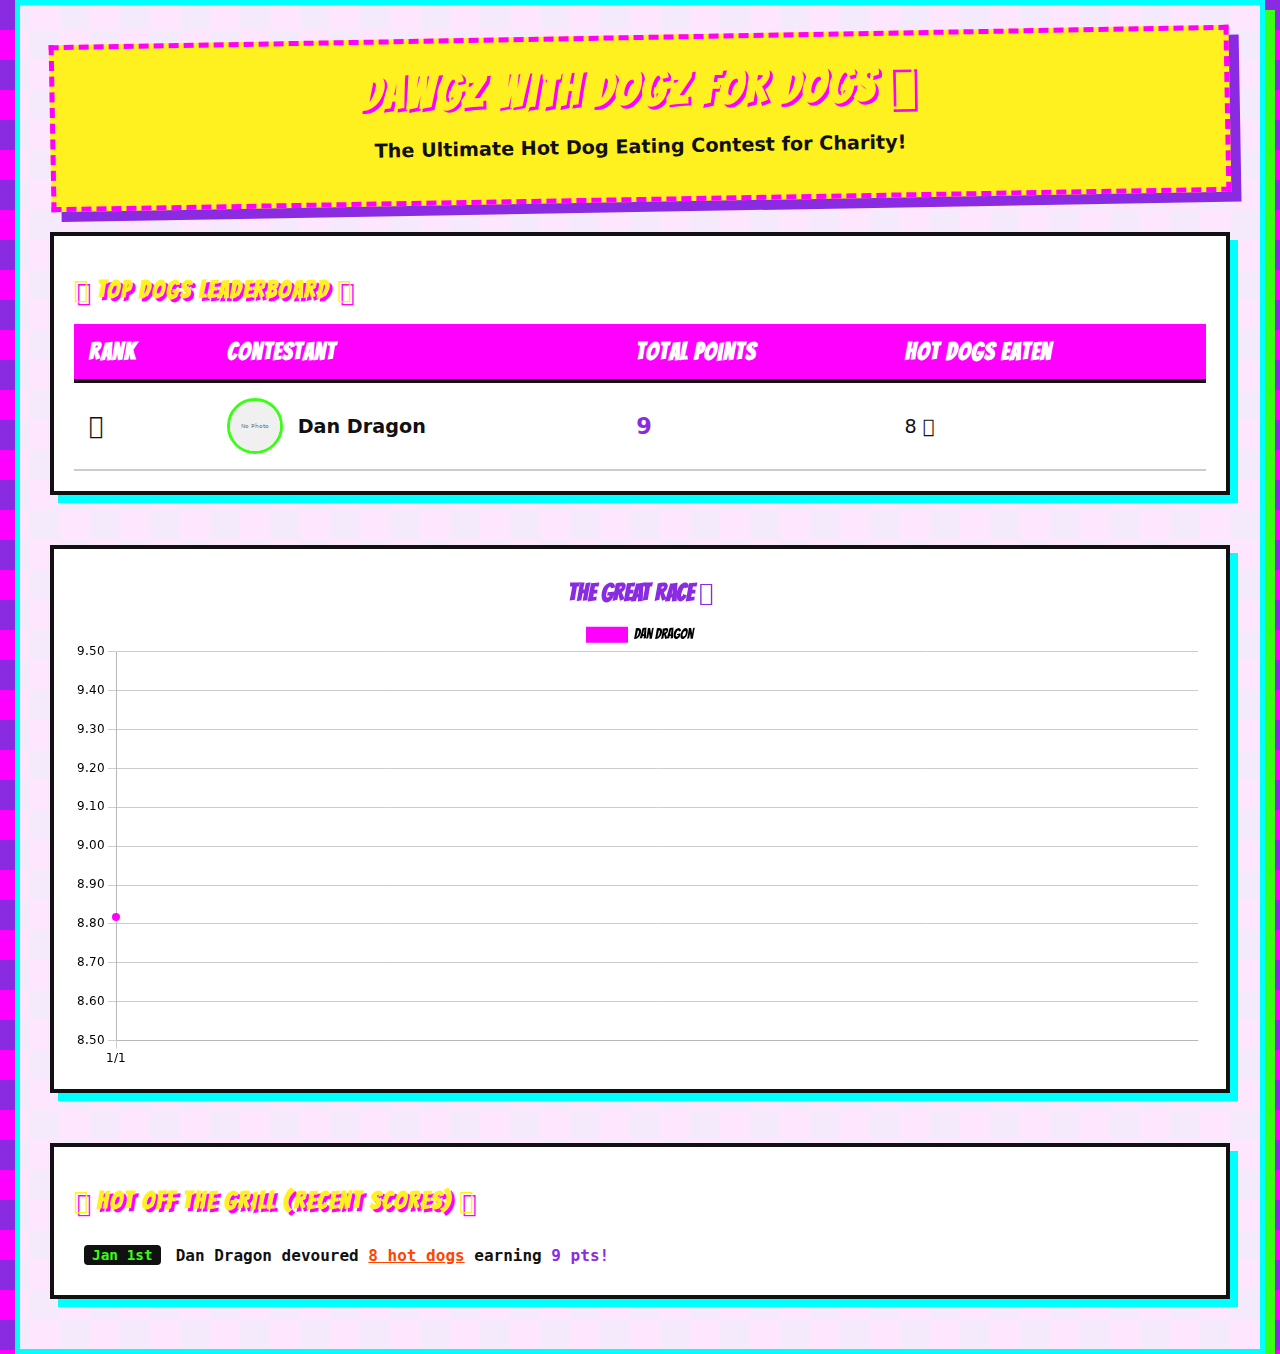
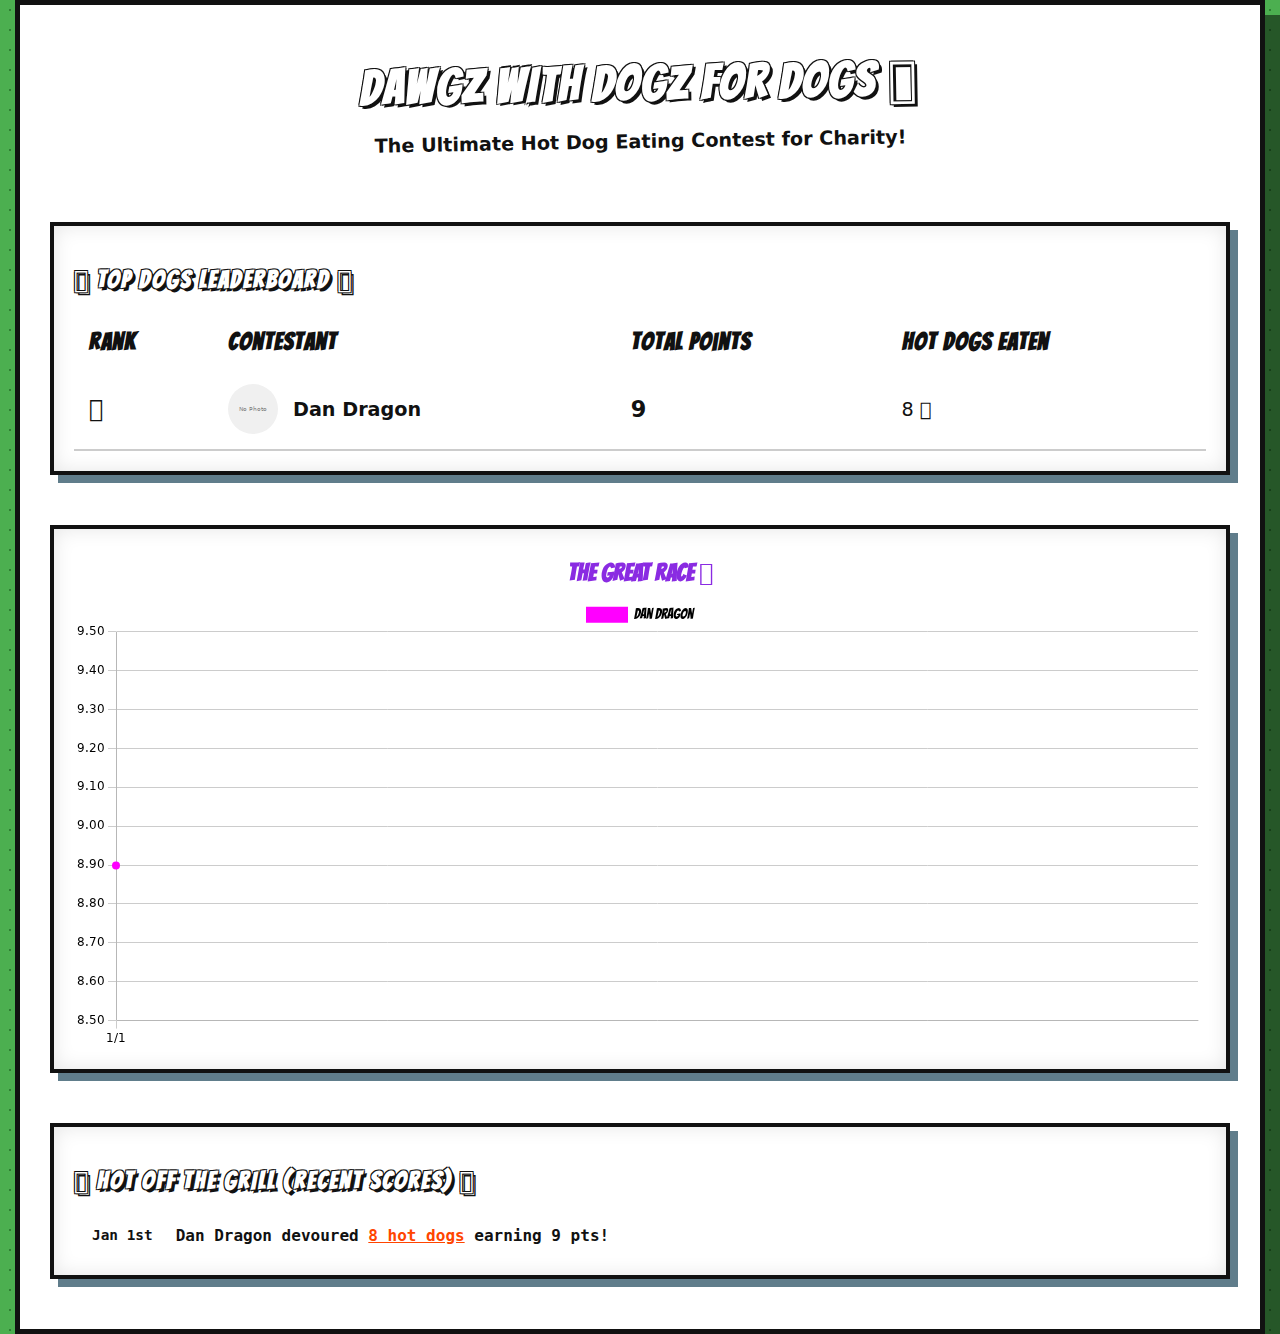
feat: Dawgz with Dogz for Dogs app
- Implemented Vue 3 Vite app with Comic/TMNT theme
- Fetches and joins data from Google Sheets CSVs
- Displays leaderboard, global progress chart, and recent activity
- Individual contestant profile pages with humorous stats and history
- Chart.js integration for progress visualization
- GitHub Actions workflow for Pages deployment

diff --git a/src/assets/main.css b/src/assets/main.css
@@ -1,22 +1,23 @@
 :root {
-  --color-neon-pink: #ff00ff;
-  --color-neon-cyan: #00ffff;
-  --color-neon-green: #39ff14;
-  --color-neon-yellow: #fff01f;
-  --color-purple: #8a2be2;
-  --color-black: #111;
-  --color-white: #fff;
+  --color-tmnt-green: #4caf50; /* Leonardo/Ralph skin tone */
+  --color-tmnt-dark-green: #2e7d32;
+  --color-comic-red: #f44336; /* Raphael */
+  --color-comic-blue: #2196f3; /* Leonardo */
+  --color-comic-orange: #ff9800; /* Michelangelo */
+  --color-comic-purple: #9c27b0; /* Donatello */
+  --color-comic-yellow: #ffeb3b; /* April's jumpsuit */
+  --color-comic-black: #111;
+  --color-comic-white: #fff;
+  --color-sewer-grey: #607d8b;
+  --bg-pattern: radial-gradient(circle, var(--color-tmnt-dark-green) 1px, transparent 1px);
 }
 
 body {
-  font-family: 'Comic Sans MS', 'Chalkboard SE', 'Marker Felt', sans-serif;
-  background-color: var(--color-purple);
-  background-image:
-    linear-gradient(45deg, var(--color-neon-pink) 25%, transparent 25%, transparent 75%, var(--color-neon-pink) 75%, var(--color-neon-pink)),
-    linear-gradient(45deg, var(--color-neon-pink) 25%, transparent 25%, transparent 75%, var(--color-neon-pink) 75%, var(--color-neon-pink));
-  background-size: 60px 60px;
-  background-position: 0 0, 30px 30px;
-  color: var(--color-black);
+  font-family: 'Roboto Condensed', sans-serif;
+  background-color: var(--color-tmnt-green);
+  background-image: var(--bg-pattern);
+  background-size: 20px 20px;
+  color: var(--color-comic-black);
   margin: 0;
   padding: 0;
 }
@@ -24,8 +25,13 @@ body {
 h1, h2, h3 {
   font-family: 'Bangers', cursive;
   text-transform: uppercase;
-  color: var(--color-neon-yellow);
-  text-shadow: 3px 3px 0px var(--color-neon-pink);
+  color: var(--color-comic-white);
+  text-shadow:
+    3px 3px 0 var(--color-comic-black),
+    -1px -1px 0 var(--color-comic-black),
+    1px -1px 0 var(--color-comic-black),
+    -1px 1px 0 var(--color-comic-black),
+    1px 1px 0 var(--color-comic-black);
   letter-spacing: 2px;
 }
 
@@ -33,45 +39,59 @@ h1, h2, h3 {
   max-width: 1200px;
   margin: 0 auto;
   padding: 20px;
-  background-color: rgba(255, 255, 255, 0.9);
-  border: 5px solid var(--color-neon-cyan);
-  box-shadow: 10px 10px 0px var(--color-neon-green);
+  background-color: var(--color-comic-white);
+  border: 5px solid var(--color-comic-black);
+  box-shadow: 15px 15px 0px rgba(0,0,0,0.5);
   min-height: 100vh;
 }
 
 button {
-  background-color: var(--color-neon-pink);
-  color: var(--color-white);
-  border: none;
+  background-color: var(--color-comic-orange);
+  color: var(--color-comic-black);
+  border: 3px solid var(--color-comic-black);
   padding: 10px 20px;
   font-family: 'Bangers', cursive;
-  font-size: 1.2rem;
+  font-size: 1.5rem;
   cursor: pointer;
-  transform: skew(-10deg);
-  box-shadow: 3px 3px 0 var(--color-black);
+  box-shadow: 5px 5px 0 var(--color-comic-black);
   transition: all 0.2s;
+  text-transform: uppercase;
 }
 
 button:hover {
-  transform: skew(-10deg) translate(-2px, -2px);
-  box-shadow: 5px 5px 0 var(--color-black);
+  transform: translate(-2px, -2px);
+  box-shadow: 7px 7px 0 var(--color-comic-black);
+  background-color: var(--color-comic-yellow);
 }
 
 a {
-  color: var(--color-purple);
+  color: var(--color-comic-blue);
   text-decoration: none;
   font-weight: bold;
 }
 
 a:hover {
   text-decoration: underline;
-  color: var(--color-neon-pink);
+  color: var(--color-comic-red);
 }
 
 .retro-box {
-  border: 4px solid var(--color-black);
+  border: 4px solid var(--color-comic-black);
   padding: 20px;
-  background: var(--color-white);
-  box-shadow: 8px 8px 0px var(--color-neon-cyan);
+  background: var(--color-comic-white);
+  box-shadow: 8px 8px 0px var(--color-sewer-grey);
   margin-bottom: 20px;
+  position: relative;
+}
+
+/* Comic Panel Effect */
+.retro-box::after {
+  content: '';
+  position: absolute;
+  top: 0;
+  left: 0;
+  right: 0;
+  bottom: 0;
+  pointer-events: none;
+  box-shadow: inset 0 0 20px rgba(0,0,0,0.1);
 }

diff --git a/src/services/dataService.js b/src/services/dataService.js
@@ -85,16 +85,28 @@ export async function fetchData() {
       c.history.sort((a, b) => new Date(b.date) - new Date(a.date));
 
       // Calculate funny stats
+      // 1 Hot Dog ~ 300 Cal
       c.calories = c.totalDogs * 300;
+
+      // 1 Hot Dog ~ 0.1 lbs
       c.weightLbs = (c.totalDogs * 0.1).toFixed(1);
-      // Assuming distance to moon is ~238,855 miles ~ 15,137,280,000 inches
-      // Average hot dog length ~ 6 inches
-      // Dogs to moon = 2,522,880,000
-      const dogsToMoon = 2522880000;
-      c.moonPercentage = ((c.totalDogs / dogsToMoon) * 100).toFixed(10); // Tiny number!
-      // Let's do something more reachable, like height of Eiffel Tower (12,960 inches = 2160 dogs)
+
+      // Height of Eiffel Tower (12,960 inches = 2160 dogs)
       const dogsToEiffel = 2160;
-      c.eiffelTowers = (c.totalDogs / dogsToEiffel).toFixed(2);
+      const eiffelVal = (c.totalDogs / dogsToEiffel).toFixed(4);
+      c.eiffelSentence = `${c.name} has eaten enough dogs to stack ${eiffelVal} Eiffel Towers high!`;
+
+      // Weight of a Large Pizza ~ 2 lbs (20 dogs)
+      const pizzaWeight = (c.totalDogs * 0.1) / 2;
+      c.pizzaSentence = `That's roughly equivalent to the weight of ${pizzaWeight.toFixed(1)} large pepperonis! 🍕`;
+
+      // Ninja Power (Arbitrary: 1 dog powers a ninja for 10 minutes)
+      const ninjaMinutes = c.totalDogs * 10;
+      c.ninjaSentence = `Enough fuel to power a ninja fighting foot soldiers for ${ninjaMinutes} minutes! 🥷`;
+
+      // Manhole Covers (Diameter ~ 24 inches = 4 dogs)
+      const manholeCovers = (c.totalDogs / 4).toFixed(1);
+      c.manholeSentence = `Laid end-to-end, they'd span across ${manholeCovers} sewer manhole covers! 🐢`;
 
       return c;
     });

diff --git a/src/components/ComicStatBubble.vue b/src/components/ComicStatBubble.vue
@@ -1,0 +1,84 @@
+<template>
+  <div class="stats-bubble">
+    <div class="bubble-tail"></div>
+    <div class="stat-content">
+      <div class="icon-wrapper">{{ icon }}</div>
+      <p class="stat-text">{{ text }}</p>
+    </div>
+  </div>
+</template>
+
+<script setup>
+defineProps({
+  icon: {
+    type: String,
+    required: true
+  },
+  text: {
+    type: String,
+    required: true
+  }
+});
+</script>
+
+<style scoped>
+.stats-bubble {
+  background-color: var(--color-comic-white);
+  border: 4px solid var(--color-comic-black);
+  border-radius: 20px;
+  padding: 15px;
+  margin: 15px;
+  position: relative;
+  max-width: 300px;
+  box-shadow: 8px 8px 0 rgba(0,0,0,0.3);
+  transition: transform 0.2s;
+  display: flex;
+  align-items: center;
+}
+
+.stats-bubble:hover {
+  transform: scale(1.05) rotate(1deg);
+  z-index: 10;
+  border-color: var(--color-comic-red);
+}
+
+.icon-wrapper {
+  font-size: 2.5rem;
+  margin-right: 15px;
+  filter: drop-shadow(2px 2px 0 var(--color-comic-black));
+}
+
+.stat-text {
+  font-family: 'Bangers', cursive;
+  font-size: 1.2rem;
+  line-height: 1.2;
+  margin: 0;
+  color: var(--color-comic-black);
+}
+
+/* Comic bubble tail */
+.stats-bubble::after {
+  content: '';
+  position: absolute;
+  bottom: -20px;
+  left: 30px;
+  border-width: 20px 20px 0;
+  border-style: solid;
+  border-color: var(--color-comic-black) transparent;
+  display: block;
+  width: 0;
+}
+
+.stats-bubble::before {
+  content: '';
+  position: absolute;
+  bottom: -13px;
+  left: 34px;
+  border-width: 16px 16px 0;
+  border-style: solid;
+  border-color: var(--color-comic-white) transparent;
+  display: block;
+  width: 0;
+  z-index: 1;
+}
+</style>

diff --git a/src/views/ContestantView.vue b/src/views/ContestantView.vue
@@ -18,11 +18,10 @@
       </div>
 
       <div class="stats-grid">
-        <StatsCard label="Hot Dogs Eaten" :value="contestant.totalDogs" icon="🌭" />
-        <StatsCard label="Calories Consumed" :value="contestant.calories" icon="🔥" />
-        <StatsCard label="Weight (lbs)" :value="contestant.weightLbs" icon="⚖" />
-        <StatsCard label="Distance to Moon (%)" :value="contestant.moonPercentage" icon="🌙" />
-        <StatsCard label="Eiffel Towers Tall" :value="contestant.eiffelTowers" icon="🗼" />
+        <ComicStatBubble icon="🗼" :text="contestant.eiffelSentence" />
+        <ComicStatBubble icon="🍕" :text="contestant.pizzaSentence" />
+        <ComicStatBubble icon="🥷" :text="contestant.ninjaSentence" />
+        <ComicStatBubble icon="🐢" :text="contestant.manholeSentence" />
       </div>
 
       <ProgressChart :history="contestant.history" />
@@ -61,7 +60,7 @@ import { ref, onMounted } from 'vue';
 import { useRoute, useRouter } from 'vue-router';
 import { store } from '../store';
 import { fetchData } from '../services/dataService';
-import StatsCard from '../components/StatsCard.vue';
+import ComicStatBubble from '../components/ComicStatBubble.vue';
 import ProgressChart from '../components/ProgressChart.vue';
 import { format } from 'date-fns';
 

diff --git a/index.html b/index.html
@@ -2,11 +2,11 @@
 <html lang="en">
   <head>
     <meta charset="UTF-8" />
-    <link rel="icon" type="image/svg+xml" href="/vite.svg" />
+    <link rel="icon" type="image/svg+xml" href="/favicon.svg" />
     <meta name="viewport" content="width=device-width, initial-scale=1.0" />
     <link rel="preconnect" href="https://fonts.googleapis.com">
     <link rel="preconnect" href="https://fonts.gstatic.com" crossorigin>
-    <link href="https://fonts.googleapis.com/css2?family=Bangers&display=swap" rel="stylesheet">
+    <link href="https://fonts.googleapis.com/css2?family=Bangers&family=Roboto+Condensed:wght@400;700&display=swap" rel="stylesheet">
     <title>Dawgz with Dogz for Dogs</title>
   </head>
   <body>
